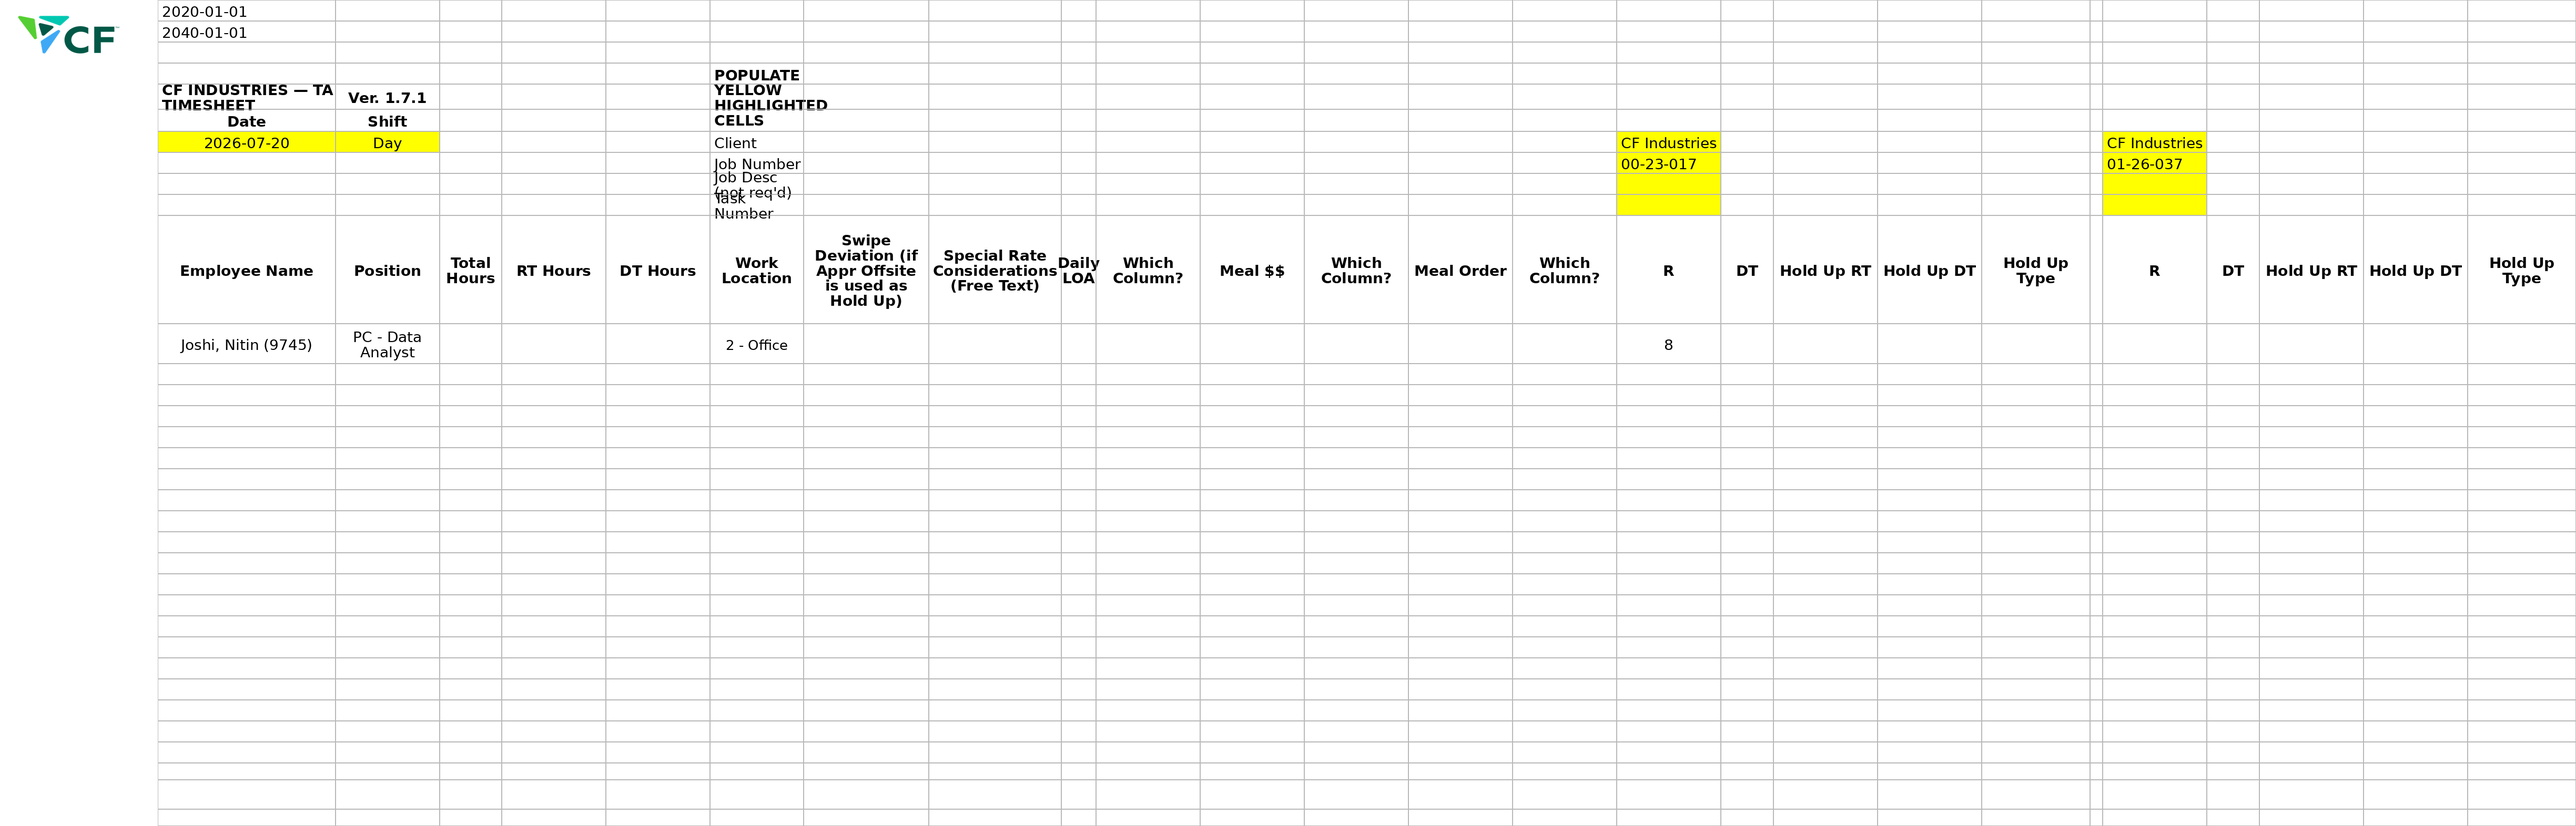
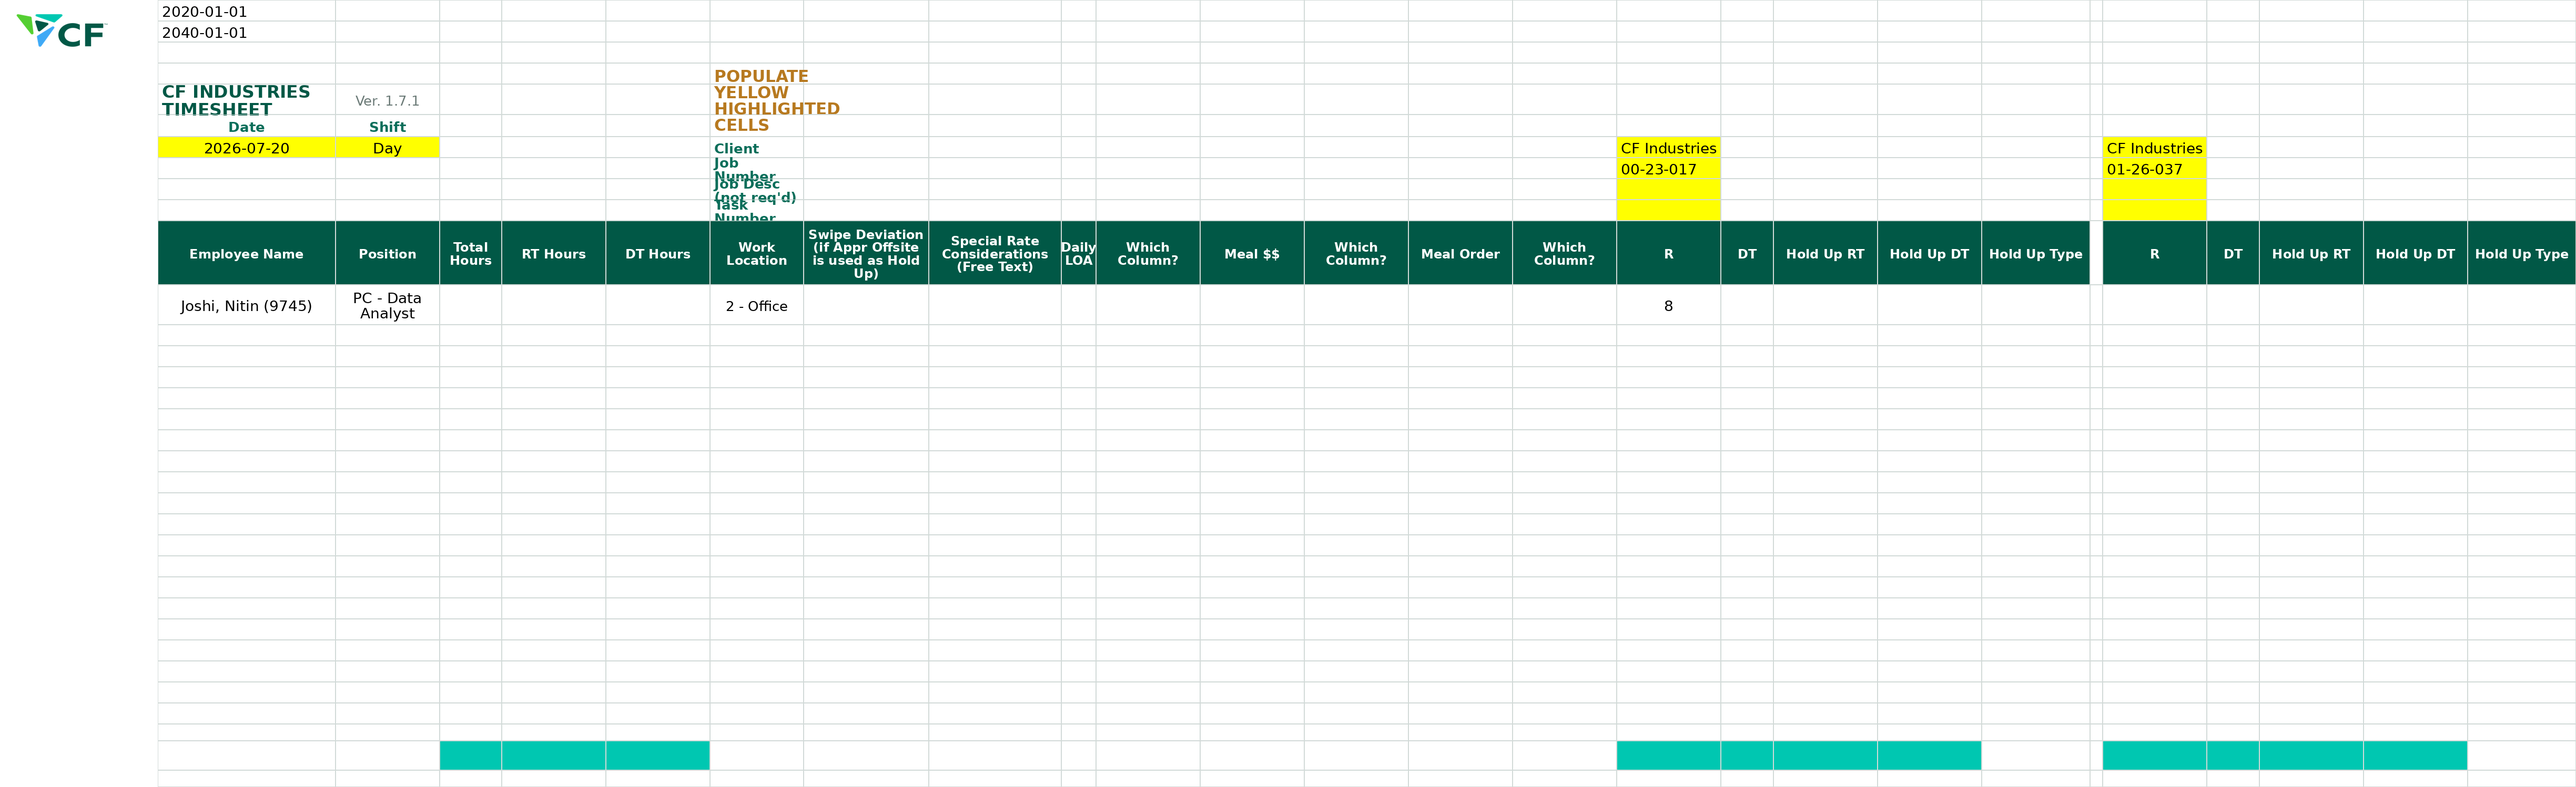
Style the Wolverine timesheet with the CF look (visual only)
Re-skinned the Wolverine "Timesheet" tab to match the CF template's design
without touching any content:
- CF logo top-left; title -> "CF INDUSTRIES TIMESHEET" in CF green
- CF-green column-header band (white bold) across employee columns and every
  job/PO block; teal totals row; header labels in CF green; gridlines off
- Client sample "Wolverine" -> "CF Industries"
- No values, formulas, dropdowns (13), tables (18), merges, columns/rows, or
  freeze panes changed — verified intact after save

Claude-Session: https://claude.ai/code/session_01EcNn9RiCpngXGpwhkxcwoF

Changed region(s): [[0.0, 0.0, 1.0, 1.0]]

diff --git a/CF-Timesheet/CF_Timesheet_Workflow_Design.md b/CF-Timesheet/CF_Timesheet_Workflow_Design.md
@@ -48,14 +48,17 @@ Wolverine workbook itself (not a rebuild), so all formulas, conditional formatti
 the 13 `INDIRECT` dropdowns and 18 lookup Tables are preserved (only 1 unused x14
 validation is dropped).
 
-**What changed vs. the Wolverine file:**
-- Title `WOLVERINE TIMESHEET` → **`CF INDUSTRIES — TA TIMESHEET`**; **CF logo** added top-left.
-- Job-block Client default `Wolverine` → **`CF Industries`**.
-- Everything else identical: Date/Shift + Client/Job Number header block, the employee
-  columns (Employee Name, Position, Total/RT/DT Hours, Work Location, Swipe Deviation,
-  Special Rate, Daily LOA, Which Column?, Meal $$, Meal Order), the horizontal job/PO
-  blocks (R · DT · Hold Up RT · Hold Up DT · Hold Up Type), the Equipment section,
-  the totals row, and the yellow "populate" cells.
+**What changed vs. the Wolverine file (visual only):**
+- **CF logo** top-left; title → **`CF INDUSTRIES TIMESHEET`** in CF green.
+- **CF-green column-header band** (white bold) across the employee columns *and* every
+  job/PO block; teal totals row; gridlines off; header labels in CF green.
+- Job-block Client sample `Wolverine` → **`CF Industries`**.
+- Everything else identical and untouched — no values, formulas, dropdowns, tables,
+  merges, columns, rows, or the freeze panes were changed: Date/Shift + Client/Job Number
+  header block, the employee columns (Employee Name, Position, Total/RT/DT Hours, Work
+  Location, Swipe Deviation, Special Rate, Daily LOA, Which Column?, Meal $$, Meal Order),
+  the horizontal job/PO blocks (R · DT · Hold Up RT · Hold Up DT · Hold Up Type), the
+  Equipment section, the totals row, and the yellow "populate" cells.
 
 WO / OP-step detail is **not** in the entry grid (handled downstream), matching the
 Wolverine R/DT-per-job model.
